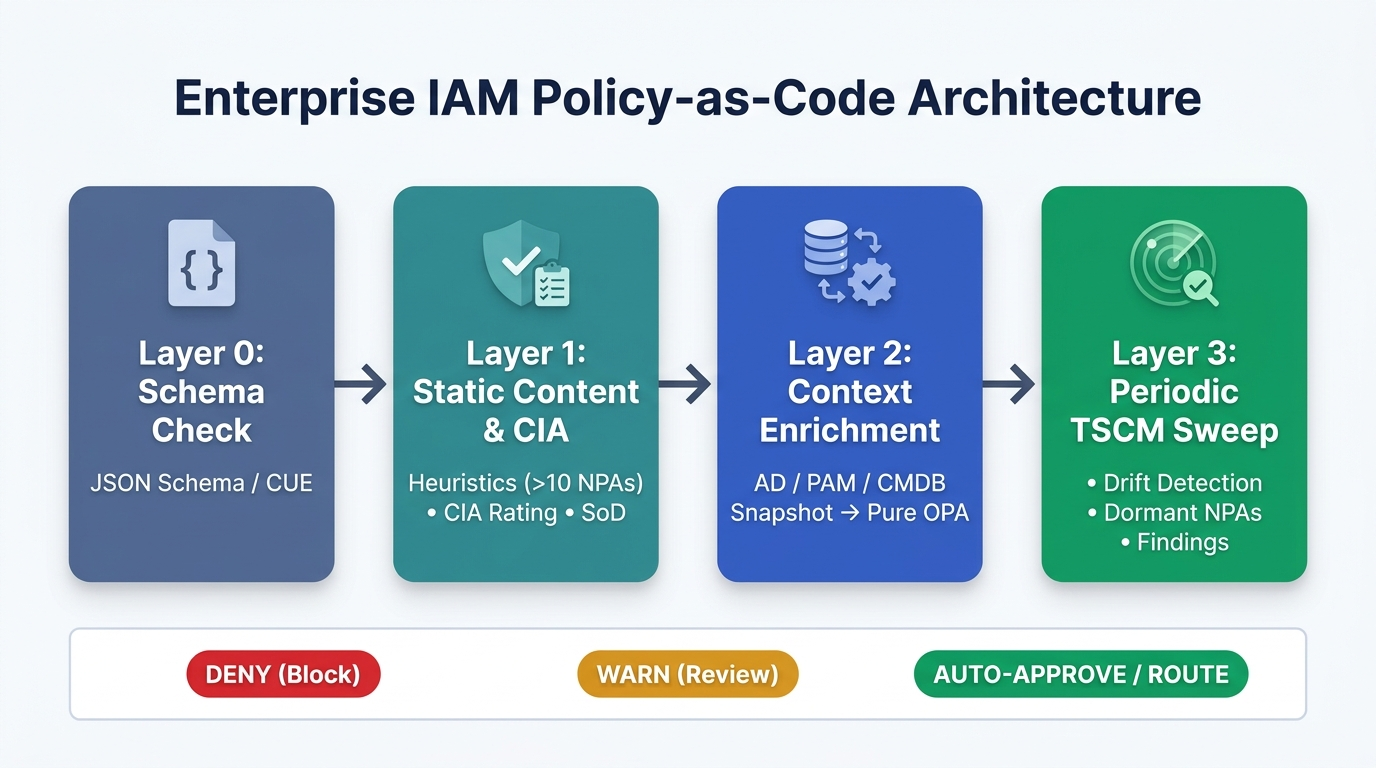
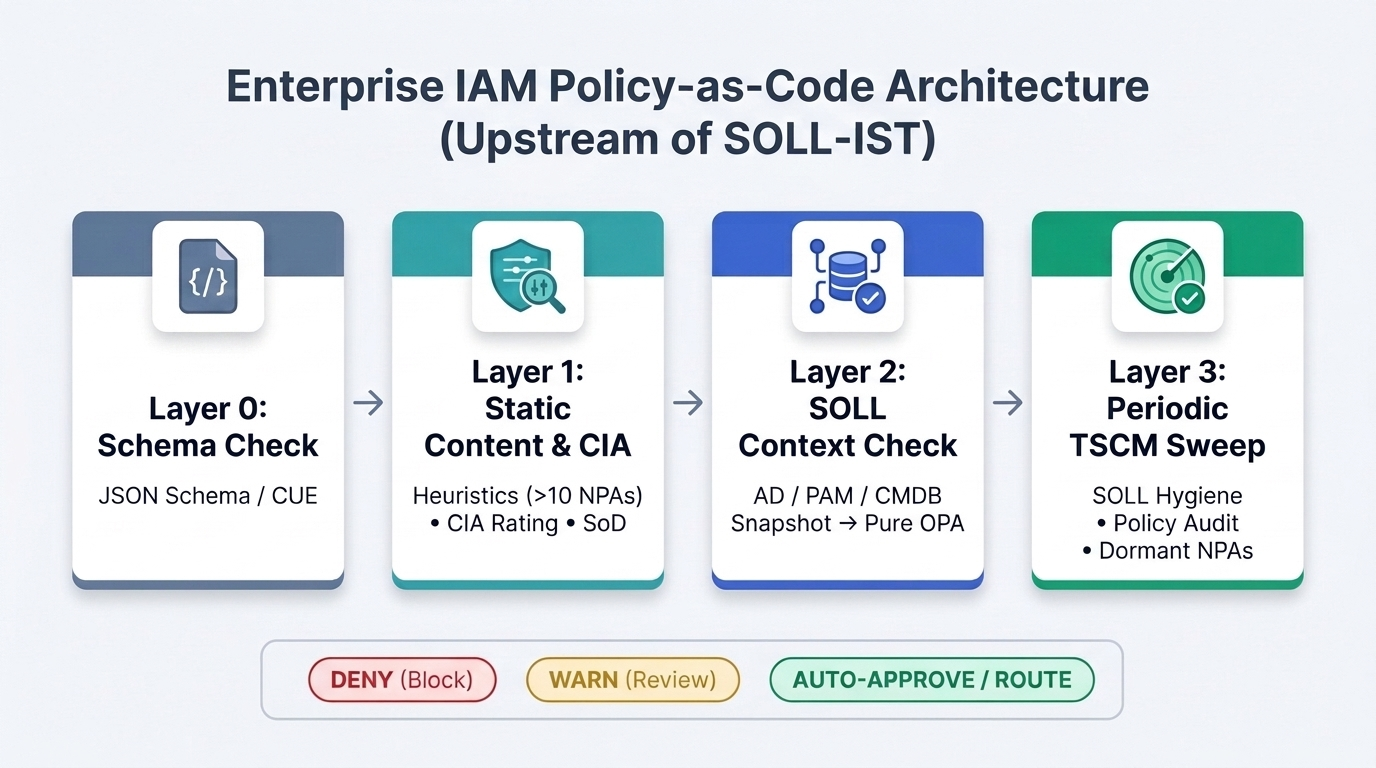
Clarify Policy -> SOLL -> IST positioning, align terminology, add Mermaid diagrams & references

diff --git a/docs/pdf-style.css b/docs/pdf-style.css
@@ -198,3 +198,10 @@ a {
   color: #0F766E;
   text-decoration: none;
 }
+
+/* Hide raw editable Mermaid source blocks in printed PDF (rendered via AI visuals instead) */
+pre.mermaid,
+div.sourceCode.mermaid,
+details.mermaid-source {
+  display: none;
+}

diff --git a/README.md b/README.md
@@ -8,12 +8,13 @@
 
 ## 1. Executive Summary
 
-Moving an authorization matrix out of Excel spreadsheets into an automated workflow solves *data entry and provisioning*, but it does not automatically solve **governance, content quality, compliance verification, or drift detection**. When an entire IAM department reviews authorization matrices manually, institutional knowledge ("more than 10 NPAs in one matrix looks wrong", "High CIA systems need PAM/JIT and 4-eyes") stays trapped in reviewers' heads.
+Moving an authorization matrix out of Excel spreadsheets into an automated workflow solves *data entry and provisioning*, but it does not automatically solve **governance, content quality, policy compliance, or ongoing SOLL hygiene**. When an entire IAM department reviews authorization matrices manually, institutional knowledge ("more than 10 NPAs in one matrix looks wrong", "High [CIA-rating](#11-key-terms--public-references) (Confidentiality, Integrity, Availability) systems need PAM/JIT and 4-eyes") stays trapped in reviewers' heads.
 
-Two architectural principles unlock Policy as Code for Enterprise IAM:
+Three architectural principles unlock Policy as Code for Enterprise IAM:
 
-1. **Separate Verification/Governance from Matrix Storage:** Keep the matrix as **structured data** (in your existing automated IAM tool, YAML/JSON, or CUE) and keep `.rego` strictly for **policy logic** — never store raw access rows as `.rego` code.
-2. **Use One Policy Engine Across Four Progressive Layers:** Combine **Schema validation**, **Static Content Analysis (heuristics & CIA-driven rules)**, **Dynamic Context-Enriched Checks** (at request time), and **Periodic TSCM Sweeps** (continuous compliance across all active matrices).
+1. **Position Policy as Code Upstream of SOLL-IST (`Policy -> SOLL -> IST`):** SOLL-IST reconciliation proves that live systems (`IST`) match the approved matrix (`SOLL`), but it cannot tell whether `SOLL` itself is safe. OPA sits **upstream** to verify `SOLL` against security and IAM policies before approval and provisioning.
+2. **Separate Verification/Governance from Matrix Storage:** Keep the matrix as **structured data** (in your existing automated IAM tool, YAML/JSON, or CUE) and keep `.rego` strictly for **policy logic** — never store raw access rows as `.rego` code.
+3. **Use One Policy Engine Across Four Progressive Layers:** Combine **Schema validation**, **Static Content Analysis (heuristics & CIA-driven rules)**, **Dynamic SOLL Context Verification** (at request time), and **Periodic TSCM Sweeps** (ongoing SOLL hygiene & policy-compliance audits across all active matrices).
 
 ### Key Recommendations
 
@@ -26,21 +27,69 @@ Two architectural principles unlock Policy as Code for Enterprise IAM:
 
 ---
 
-## 2. The Four-Layer Verification & Continuous Compliance Model
+## 2. Positioning: Matrix Policy-as-Code vs. SOLL-IST Reconciliation
+
+A frequent point of confusion in Enterprise IAM is equating **Authorization Matrix Policy as Code** with **SOLL-IST reconciliation** (Desired State vs. Actual State). They are **not the same capability** — they solve two different halves of the governance loop:
+
+![Closed-Loop IAM Governance: Policy -> SOLL -> IST](docs/images/policy-soll-ist-closed-loop.jpg)
+
+```mermaid
+flowchart LR
+  subgraph UPSTREAM["UPSTREAM: Matrix Approval Policy as Code (Is SOLL safe & compliant?)"]
+    P["Security & IAM Policies<br/>(OPA / Rego Rules)"] -->|"Evaluates"| SOLL["Authorization Matrix (SOLL)<br/>Desired State • Guardrails • Heuristics • CIA • Approval"]
+  end
+
+  subgraph DOWNSTREAM["DOWNSTREAM: SOLL-IST Reconciliation (Does IST match SOLL?)"]
+    IST["Live Target Systems (IST)<br/>AD / Entra • PAM • Servers • Cloud"]
+  end
+
+  SOLL -->|"Automated Provisioning"| IST
+  SOLL <-->|"SOLL-IST Drift Check"| IST
+```
+
+### Why SOLL-IST Alone Is Not Enough
+
+- **SOLL-IST Reconciliation** compares the **approved Authorization Matrix (`SOLL`)** against **live target systems (`IST`)** to detect unauthorized manual changes, shadow admins, or failed provisioning.
+- **The Blind Spot:** SOLL-IST blindly trusts that `SOLL` itself is safe. If a poorly scoped or non-compliant matrix (e.g., a service account with interactive `ssh_sudo`, a Tier-0 wildcard, a nested-group SoD conflict, or 25 NPAs bundled into one matrix) gets approved, **SOLL-IST will report 100% GREEN** — faithfully enforcing an insecure desired state.
+- **Authorization Matrix Policy as Code (OPA)** sits **upstream** of SOLL-IST to verify `SOLL` against security and IAM policies *before* approval and provisioning.
+
+| Dimension | Authorization Matrix Policy as Code (OPA) | SOLL-IST Reconciliation |
+| :--- | :--- | :--- |
+| **Core Question** | *"Is `SOLL` itself safe, compliant, and properly approved?"* | *"Does actual reality (`IST`) match `SOLL`?"* |
+| **What It Compares** | Proposed/Existing Matrix (`SOLL`) vs. **Security/IAM Policy** | Approved Matrix (`SOLL`) vs. **Live Target State (`IST`)** |
+| **Lifecycle Position** | **Upstream** (design, change approval, periodic policy audit) | **Downstream** (post-provisioning enforcement & drift detection) |
+| **Example Catch** | *"Service account requests `ssh_sudo` on a High-CIA server — block approval."* | *"User `j.doe` has `ssh_sudo` on `prod-db-01` outside the matrix — revoke."* |
+| **Blind Spot Without the Other** | Does not inspect `/etc/sudoers` or live ACLs for out-of-band tampering | Marks a dangerous matrix as "100% compliant" whenever `IST == SOLL` |
+
+> **Complementary Closed Loop (`Policy -> SOLL -> IST`):** Static guardrails, heuristics, CIA rules, and approval routing have **zero overlap** with SOLL-IST. Context-enriched TSCM checks (Layers 2–3) complement SOLL-IST by validating the *metadata and lifecycle health of `SOLL`* (CMDB server status, NPA password rotation, dormancy, CIA drift) while SOLL-IST validates *entitlement parity on target systems*. Together, **`Policy -> Valid SOLL -> Matching IST`** delivers end-to-end provable compliance.
+
+---
+
+## 3. The Four-Layer Verification & Continuous Compliance Model
 
 ![Four-Layer Enterprise IAM Policy-as-Code Architecture](docs/images/four-layer-opa-architecture.jpg)
+
+```mermaid
+flowchart LR
+  L0["Layer 0: Schema Check<br/>JSON Schema / CUE"] --> L1["Layer 1: Static Content & CIA<br/>Heuristics (>10 NPAs) • CIA Rating • SoD"]
+  L1 --> L2["Layer 2: SOLL Context Check<br/>AD / PAM / CMDB Snapshot -> Pure OPA"]
+  L2 --> L3["Layer 3: Periodic TSCM Sweep<br/>SOLL Hygiene • Policy Audit • Dormant NPAs"]
+  L3 --> D1["DENY (Block)"]
+  L3 --> D2["WARN (Review)"]
+  L3 --> D3["AUTO-APPROVE / ROUTE"]
+```
 
 ```text
 +-------------------------------------------------------------------------+
 | LAYER 0: Syntax & Schema Validation (JSON Schema / CUE)                 |
-| "Is the matrix technically well-formed?"                                |
+| "Is the proposed SOLL matrix technically well-formed?"                  |
 |  - Required fields, valid data types, allowed enums (CIA, tiers, types) |
 +-------------------------------------------------------------------------+
                                    |
                                    v
 +-------------------------------------------------------------------------+
 | LAYER 1: Static Content Analysis in OPA (zero external calls)           |
-| "Does the content make sense, and does it meet CIA & IAM guardrails?"   |
+| "Does SOLL make sense, and does it meet CIA & IAM guardrails?"          |
 |  - Content Heuristics / Anomalies (WARN -> forces human review):        |
 |    * > 10 Non-Personal Accounts (NPAs) in one matrix -> suspicious      |
 |    * > 10 target machines/resources in one rule/matrix -> over-scoped   |
@@ -57,8 +106,8 @@ Two architectural principles unlock Policy as Code for Enterprise IAM:
                                    |
                                    v
 +-------------------------------------------------------------------------+
-| LAYER 2: Dynamic Context-Enriched Analysis (Change / Request Time)      |
-| "Does this request match live reality in AD, PAM, CMDB, and HR?"        |
+| LAYER 2: Dynamic SOLL Context Verification (Change / Request Time)      |
+| "Are the accounts, assets & CIA ratings in SOLL valid in AD & CMDB?"    |
 |  - External enrichment script builds context_snapshot.json              |
 |  - OPA checks:                                                          |
 |    * Does the NPA exist and is it enabled in AD/Entra?                  |
@@ -70,20 +119,23 @@ Two architectural principles unlock Policy as Code for Enterprise IAM:
                                    |
                                    v
 +-------------------------------------------------------------------------+
-| LAYER 3: Periodic TSCM Sweep (Daily / Weekly / Monthly)                 |
-| "Do ALL existing matrices still comply with policy AND reality?"        |
+| LAYER 3: Periodic TSCM Sweep — SOLL Hygiene & Policy-Compliance Audit   |
+| "Do ALL approved SOLL matrices still comply with policy & asset state?" |
 |  - Runs the exact same OPA rules + fresh context across ALL matrices    |
 |  - Outputs structured findings (severity, owner, remediation)           |
 |  - Catches dormant NPAs, expired rotations, decommissioned servers,     |
-|    departed owners, and newly introduced security policy drift          |
+|    departed owners, and matrices invalidated by newly added policies    |
+|  (Note: Entitlement drift on target hosts remains downstream SOLL-IST.) |
 +-------------------------------------------------------------------------+
 ```
 
 ---
 
-## 3. Why Three Decision Outcomes Matter (`deny`, `warn`, `approval`)
+## 4. Why Three Decision Outcomes Matter (`deny`, `warn`, `approval`)
 
 ![IAM Policy-as-Code & TSCM Review Console Mockup](docs/images/opa-iam-review-dashboard.jpg)
+
+*Illustrative console mockup: the left panel shows upstream change-request gating on `SOLL`; the right panel shows periodic TSCM hygiene findings on `SOLL` metadata (decommissioned CMDB hosts, dormant NPAs, and CIA classification mismatches) — complementary to downstream SOLL-IST entitlement drift checks.*
 
 A common misconception is that Policy as Code can only say "allow" or "deny." For an Enterprise IAM team, three distinct outputs make OPA dramatically more practical:
 
@@ -120,7 +172,7 @@ Most manual IAM matrix reviews rely on experienced engineers spotting patterns t
 
 ---
 
-## 4. Dynamic Context Enrichment: Why Enrich *Before* OPA (Not `http.send`)
+## 5. Dynamic Context Enrichment: Why Enrich *Before* OPA (Not `http.send`)
 
 Although OPA provides an `http.send` built-in, calling live AD, PAM, or CMDB APIs directly from inside `.rego` policies is an anti-pattern at enterprise scale:
 
@@ -131,17 +183,17 @@ Although OPA provides an `http.send` built-in, calling live AD, PAM, or CMDB API
 | **Testability** | Requires HTTP mocking or fragile integration environments. | Trivially unit-tested with static JSON fixtures via `opa test`. |
 | **Credential Isolation** | API tokens and auth logic leak into the policy engine. | OPA stays completely networkless; only the enrichment job holds read-only API credentials. |
 
-### High-Value Continuous TSCM Checks
+### High-Value Continuous TSCM Checks (SOLL Hygiene & Policy Audit)
 
-Running Layer 2 + Layer 3 on a daily, weekly, or monthly schedule turns OPA into a **Technical Security Compliance Monitoring (TSCM)** engine for IAM:
+Running Layer 2 + Layer 3 on a daily, weekly, or monthly schedule turns OPA into a **Technical Security Compliance Monitoring (TSCM)** audit over all approved `SOLL` matrices:
 
-- **NPA Lifecycle Hygiene:** Detect non-personal accounts that are disabled, missing, unused for >90 days (dormant cleanup candidates), or overdue for password/secret rotation.
-- **CMDB Reality & Drift Check:** Flag matrix entries pointing to decommissioned or unknown machines, or where the matrix claims `CIA = low` while the CMDB classifies the asset as `high`.
-- **Policy-Evolution Impact Analysis:** Whenever Security adds a new Rego rule (e.g., *"no standing RDP on `A=high` servers"*), a single TSCM sweep immediately reveals every existing matrix that is now out of compliance — grouped by `business_owner` for automated remediation tickets.
+- **NPA Lifecycle Hygiene:** Detect non-personal accounts referenced in `SOLL` that are disabled, missing, unused for >90 days (dormant cleanup candidates), or overdue for password/secret rotation.
+- **CMDB Asset & CIA Metadata Check:** Flag matrix entries pointing to decommissioned or unknown machines, or where the matrix claims `CIA = low` while the CMDB classifies the asset as `high`.
+- **Policy-Evolution Impact Analysis:** Whenever Security adds a new Rego rule (e.g., *"no standing RDP on `A=high` servers"*), a single TSCM sweep immediately reveals every existing `SOLL` matrix that is now out of compliance — grouped by `business_owner` for automated remediation tickets. *(Live entitlement drift on servers remains handled downstream by SOLL-IST reconciliation.)*
 
 ---
 
-## 5. Tool Landscape Comparison
+## 6. Tool Landscape Comparison
 
 ### A. Tools for Auto-Verifying & Gating an Authorization Matrix
 
@@ -164,41 +216,75 @@ Running Layer 2 + Layer 3 on a daily, weekly, or monthly schedule turns OPA into
 
 ---
 
-## 6. Reference Architectures
+## 7. Reference Architectures
 
 ### Option A: Non-Invasive Policy Gate + Periodic TSCM (Lowest Friction)
 
+```mermaid
+flowchart TD
+  IAM["Existing Automated IAM Tool<br/>(proposed SOLL matrix / diff JSON)"] --> OPA["OPA / Rego Policy Engine<br/>(Guardrails + Heuristics + CIA + SOLL TSCM)"]
+  EXT["AD / Entra / PAM / CMDB / HR<br/>(enrichment script -> context snapshot)"] --> OPA
+  OPA --> GATE["Change Gate<br/>(deny / warn)"]
+  OPA --> ROUTE["Approval Routing<br/>(Owner / IAM Security)"]
+  OPA --> TSCM["TSCM SOLL Findings<br/>(Tickets per owner)"]
+  ROUTE -->|"Approved SOLL"| PROV["Automated Provisioning"]
+  PROV --> IST["Live Target Systems (IST)<br/>(AD / Entra / PAM / Servers)"]
+  IST <-->|"Downstream Entitlement Drift"| SOLLIST["SOLL-IST Reconciliation"]
+```
+
 ```text
 [Existing Automated IAM Tool]        [AD / Entra / PAM / CMDB / HR]
+  (proposed SOLL / diff JSON)               (enrichment script)
              |                                      |
-             | export matrix / diff JSON            | enrichment script
              v                                      v
       +---------------------------------------------------+
-      |              OPA / Rego Policy Engine             |
-      |  (Guardrails + Heuristics + CIA + Context/TSCM)   |
+      |              OPA / Rego Policy Engine             |  <-- UPSTREAM:
+      |  (Guardrails + Heuristics + CIA + SOLL TSCM)      |      Validates SOLL
       +---------------------------------------------------+
         |                       |                       |
         v                       v                       v
-  [Change Gate]         [Approval Routing]      [TSCM Findings]
+  [Change Gate]         [Approval Routing]      [TSCM SOLL Audit]
   deny / warn           Owner / IAM Security    Tickets per owner
+                                |
+                                | Approved SOLL
+                                v
+                      [Automated Provisioning]
+                                |
+                                v
+                   [Live Target Systems (IST)]  <-->  [SOLL-IST Reconciliation]
+                                                      (Downstream Entitlement Drift)
 ```
 
 ### Option B: Git-Backed Matrix (YAML/JSON or CUE + OPA)
+
+```mermaid
+flowchart TD
+  GIT["Git: matrix/*.yaml or *.cue<br/>(Proposed SOLL)"] --> L0["Layer 0: Schema / cue vet"]
+  L0 --> OPA["Layer 1-3: OPA / Rego"]
+  EXT["AD / CMDB Enrichment<br/>(context snapshot)"] --> OPA
+  OPA --> PROV["Provisioning: AD/Entra, PAM, TF<br/>(Approved SOLL -> IST)"]
+  OPA --> AUDIT["Auditor HTML/CSV + TSCM SOLL Audit"]
+  PROV --> IST["Live Target Systems (IST)"]
+  IST <-->|"Downstream Entitlement Drift"| SOLLIST["SOLL-IST Reconciliation"]
+```
 
 ```text
 [Git: matrix/*.yaml or *.cue] --> [Layer 0: Schema / cue vet]
                                               |
                                               v
-[AD / CMDB Enrichment] ----------> [Layer 1-3: OPA / Rego]
+[AD / CMDB Enrichment] ----------> [Layer 1-3: OPA / Rego]    <-- UPSTREAM (SOLL)
                                               |
                      +------------------------+------------------------+
                      v                                                 v
         [Provisioning: AD/Entra, PAM, TF]                 [Auditor HTML/CSV + TSCM]
+                     |
+                     v
+        [Live Target Systems (IST)]  <-->  [SOLL-IST Reconciliation]  <-- DOWNSTREAM (IST)
 ```
 
 ---
 
-## 7. Concrete Example: Data + OPA Policies
+## 8. Concrete Example: Data + OPA Policies
 
 ### Example Matrix Entry with CIA Rating (JSON/YAML)
 
@@ -258,7 +344,7 @@ tscm_findings contains finding if {
 
 ---
 
-## 8. Suggested Phased Adoption Roadmap
+## 9. Suggested Phased Adoption Roadmap
 
 1. **Phase 1 — Shadow-Mode Static & Heuristic Verification (Week 1–2)**
    - Export snapshots from the existing automated matrix tool as JSON.
@@ -275,27 +361,46 @@ tscm_findings contains finding if {
 
 ---
 
-## 9. Runnable OPA / Rego Proof of Concept (Included in This Repository)
+## 10. Runnable OPA / Rego Proof of Concept (Included in This Repository)
 
-All four layers are implemented as runnable, tested OPA/Rego (`import rego.v1`) policies in this repository so they can be demonstrated live with zero external dependencies:
+All four upstream layers are implemented as a runnable, zero-dependency Proof of Concept in this repository so they can be demonstrated live in under two minutes:
 
-- **Policies & Unit Tests:** [policies/guardrails.rego](policies/guardrails.rego), [policies/approval.rego](policies/approval.rego), [policies/context_tscm.rego](policies/context_tscm.rego) (+ `*_test.rego`)
-- **Demo Fixtures & Walkthrough:** [examples/README.md](examples/README.md) and [examples/data/](examples/data/)
+- **Layer 0 Schema:** [schemas/matrix.schema.json](schemas/matrix.schema.json)
+- **Layer 1–3 Policies & 20 Unit Tests:** [policies/guardrails.rego](policies/guardrails.rego), [policies/approval.rego](policies/approval.rego), [policies/context_tscm.rego](policies/context_tscm.rego) (+ `*_test.rego`)
+- **Executable 4-Layer CLI & 6 Automated Tests:** [scripts/iam_matrix_check.py](scripts/iam_matrix_check.py) (stdlib-only Python 3, CI exit codes `0`/`1`/`2`, `--save-snapshot` audit replay)
+- **Demo Fixtures & Mock AD/CMDB Sources:** [examples/README.md](examples/README.md), [examples/data/](examples/data/), and [examples/mock_sources/](examples/mock_sources/)
 
 ```bash
-# Run all automated policy unit tests
-opa test -v policies/
+# Run the complete 4-layer live demo (Tier-0/CIA, heuristics WARN, DENY/SoD, AD+CMDB TSCM)
+make run-demo
 
-# Evaluate a blocked change (service-account SSH, wildcard, transitive SoD)
-opa eval -d policies -i examples/data/diff_violations.json "data.iam.matrix.approval.decision"
+# Run all automated tests (lint + 20 OPA Rego unit tests + 6 CLI pipeline tests)
+make lint && make test && make test-cli
 
-# Evaluate a heuristics warning (>10 NPAs, >10 resources, shared-* account)
-opa eval -d policies -i examples/data/diff_heuristics_warn.json "data.iam.matrix.approval.decision"
-
-# Evaluate a dynamic context-enriched TSCM sweep (AD + CMDB snapshot)
-opa eval -d policies -i examples/data/tscm_sweep_enriched.json "data.iam.matrix.tscm.report"
+# Run the CLI directly with external AD & CMDB enrichment and save an audit snapshot
+python3 scripts/iam_matrix_check.py \
+  --matrix examples/data/tscm_sweep_enriched.json \
+  --ad examples/mock_sources/ad_accounts.json \
+  --cmdb examples/mock_sources/cmdb_machines.json \
+  --save-snapshot /tmp/audit_snapshot.json
 ```
 
 ---
 
-*Author: **Arjan Filius** | Date: **24 November 2026***
+## 11. Key Terms & Public References
+
+| Term | Meaning in This Document | Public Reference |
+| :--- | :--- | :--- |
+| **SOLL-IST Reconciliation** | Comparing **Desired State (`SOLL`)** (approved authorization matrix) against **Actual State (`IST`)** on live systems to detect **entitlement drift** — downstream of Matrix Policy-as-Code. | [NIST SP 800-53 — CM-3 / AC-2 Account Management](https://csrc.nist.gov/projects/cprt/catalog#/cprt/framework/version/SP_800_53_5_1_1/home?element=AC-02) |
+| **CIA Rating (CIA Triad)** | Information security classification across **Confidentiality, Integrity, and Availability** (`low` / `medium` / `high`), used to scale IAM controls and approval rigor (known in Dutch frameworks as *BIV*: *Beschikbaarheid, Integriteit, Vertrouwelijkheid*). | [NIST FIPS 199 — Security Categorization](https://csrc.nist.gov/pubs/fips/199/final) · [NIST CSRC — CIA Triad](https://csrc.nist.gov/glossary/term/cia_triad) |
+| **OPA & Rego** | **Open Policy Agent** — CNCF-graduated general-purpose Policy-as-Code engine using the declarative **Rego** language. | [Open Policy Agent Docs](https://www.openpolicyagent.org/docs/latest/) · [Rego Policy Language](https://www.openpolicyagent.org/docs/latest/policy-language/) |
+| **Segregation of Duties (SoD)** | Control preventing a single identity or group from holding conflicting privileges (e.g., deploying code and administering audit logs). | [NIST SP 800-53 — AC-5 Separation of Duties](https://csrc.nist.gov/projects/cprt/catalog#/cprt/framework/version/SP_800_53_5_1_1/home?element=AC-05) |
+| **PAM / JIT** | **Privileged Access Management** & **Just-in-Time** elevation — time-bound, vaulted privileged access replacing standing admin rights. | [NIST CSRC — Privileged Account / Least Privilege](https://csrc.nist.gov/glossary/term/least_privilege) |
+| **Enterprise Access / Tiering (Tier-0)** | Isolating high-value identity/control-plane assets (**Tier-0**) from general servers (**Tier-1**) and workstations/non-prod to stop lateral movement. | [Microsoft Enterprise Access Model](https://learn.microsoft.com/en-us/security/privileged-access-management/privileged-access-access-model) |
+| **NPA** | **Non-Personal Account** (service account, batch account, or machine identity) not tied to an individual human user. | [NIST SP 800-53 — IA-2 / IA-4 Identifier Management](https://csrc.nist.gov/projects/cprt/catalog#/cprt/framework/version/SP_800_53_5_1_1/home?element=IA-04) |
+| **TSCM / Continuous Monitoring** | **Technical Security Compliance Monitoring** — periodic automated audits of `SOLL` (matrix metadata, NPA lifecycle, CMDB asset/CIA status, and policy evolution), complementary to downstream SOLL-IST entitlement drift checks. | [NIST SP 800-137 — Continuous Monitoring (ISCM)](https://csrc.nist.gov/pubs/sp/800/137/final) |
+| **CUE & Cedar** | Complementary Policy/Data-as-Code languages: **CUE** for schema-constrained configuration; **Cedar** for formally verifiable application AuthZ. | [CUE Language](https://cuelang.org/) · [Cedar Policy Language](https://www.cedarpolicy.com/) |
+
+---
+
+*Author: **Arjan Filius** | Date: **27 November 2026***
